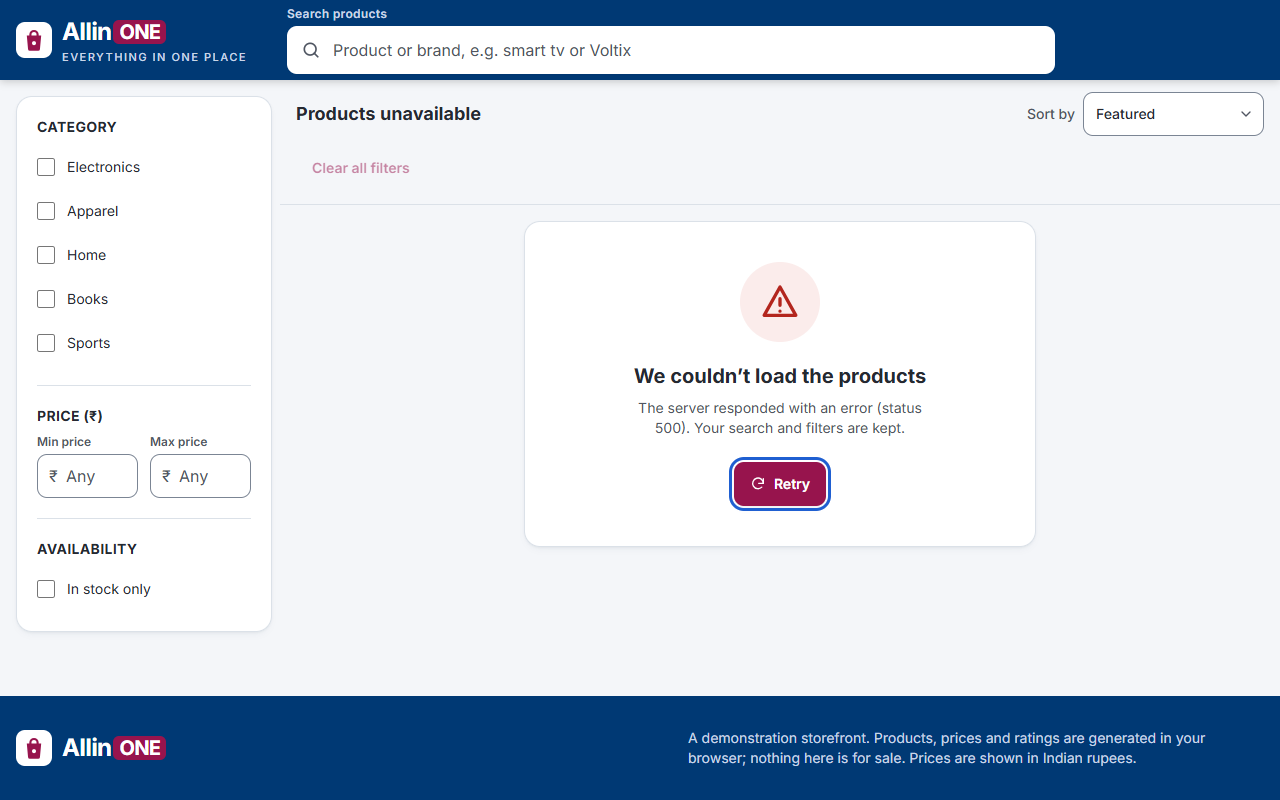
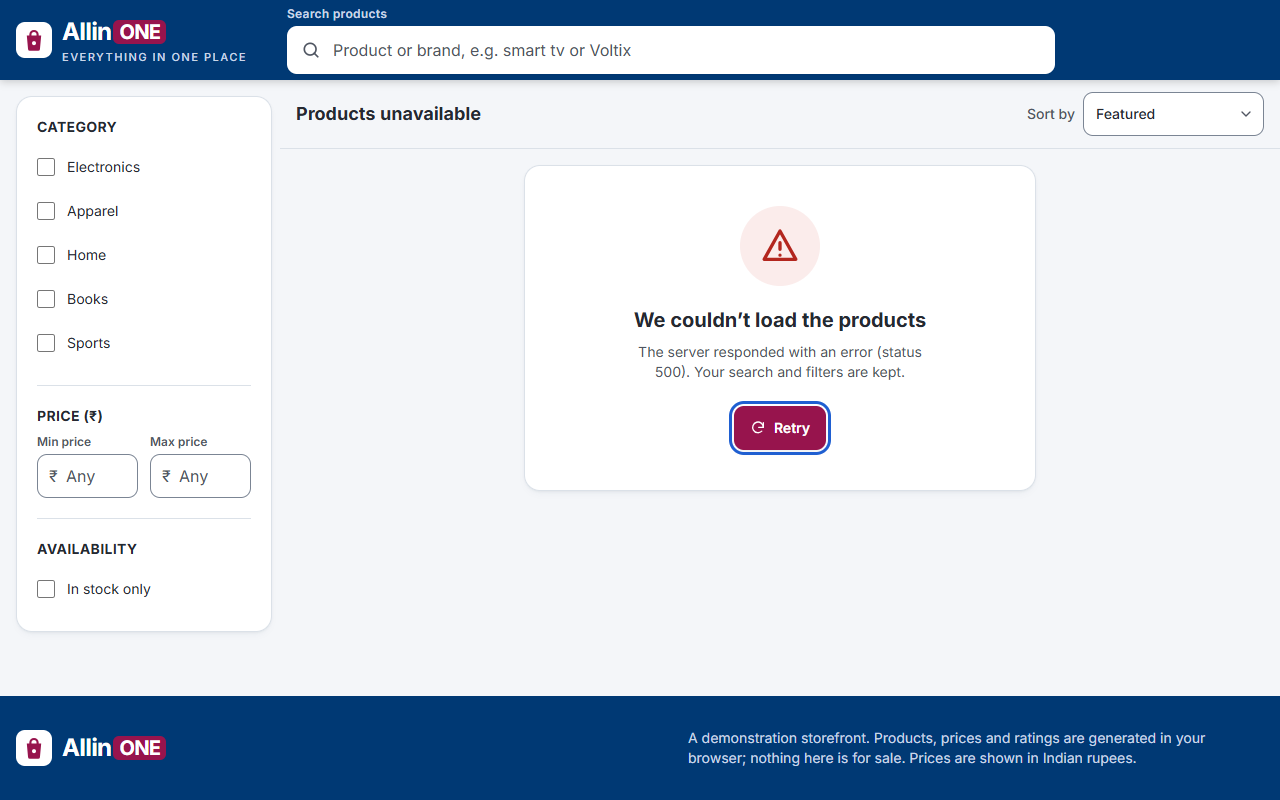
last update fix search focus

Changed region(s): [[0.5, 0.2812, 0.7188, 0.6562], [0.25, 0.1875, 0.3125, 0.2188]]

diff --git a/src/app/features.test.tsx b/src/app/features.test.tsx
@@ -18,9 +18,9 @@ describe('the default build: a single catalog page', () => {
     expect(screen.getByRole('button', { name: 'Buy now: Trail Running Shoes' })).toBeInTheDocument();
     expect(screen.queryByRole('button', { name: /^Share/ })).not.toBeInTheDocument();
     expect(screen.queryByText(/reviews?\)/)).not.toBeInTheDocument();
-    // The brief's controls are all there.
     expect(screen.getByRole('combobox', { name: 'Search products' })).toBeInTheDocument();
-    expect(screen.getByRole('button', { name: 'Clear all filters' })).toBeInTheDocument();
+    // Nothing to clear yet, so no Clear all button.
+    expect(screen.queryByRole('button', { name: 'Clear all filters' })).not.toBeInTheDocument();
   });
 
   it.each(['/product/p-1', '/cart', '/cart?items=p-1:2', '/checkout', '/checkout/confirmation'])(
@@ -60,5 +60,21 @@ describe('the default build: a single catalog page', () => {
     await waitFor(() => expect(currentSearch()).toBe(''));
     expect(screen.getByRole('combobox', { name: 'Search products' })).toHaveValue('');
     expect(await screen.findByRole('heading', { level: 3, name: 'Cotton T-Shirt' })).toBeInTheDocument();
+  });
+
+  it('focus that the app moves to the search box does not open the suggestions; a click does', async () => {
+    const services = defaultBuild();
+    services.recentSearches.add('yoga mat');
+    const { user } = renderApp({ route: '/?q=shoes', services });
+    await screen.findByRole('heading', { level: 3, name: 'Trail Running Shoes' });
+    const search = screen.getByRole('combobox', { name: 'Search products' });
+
+    await user.click(screen.getByRole('button', { name: 'Clear search' }));
+    expect(search).toHaveFocus();
+    expect(screen.queryByRole('listbox', { name: 'Search suggestions' })).not.toBeInTheDocument();
+
+    await user.click(search);
+    expect(screen.getByRole('listbox', { name: 'Search suggestions' })).toBeVisible();
+    expect(screen.getByRole('option', { name: /yoga mat/ })).toBeInTheDocument();
   });
 });

diff --git a/src/features/catalog/SearchBox.tsx b/src/features/catalog/SearchBox.tsx
@@ -44,12 +44,15 @@ export const SearchBox = memo(function SearchBox({
   const id = useId();
   const listId = `${id}-suggestions`;
   const [focused, setFocused] = useState(false);
+  // Opened by the user (a click or tap in the field, typing, or Down), never by focus alone:
+  // focus that the app moves here (e.g. after Clear search) must not pop the list open.
+  const [engaged, setEngaged] = useState(false);
   const [highlighted, setHighlighted] = useState(-1);
   // The text for which the list was closed (Esc, or a pick); typing anything else reopens it.
   const [dismissedFor, setDismissedFor] = useState<string | null>(null);
 
   const count = suggestions.length;
-  const open = focused && count > 0 && dismissedFor !== value;
+  const open = focused && engaged && count > 0 && dismissedFor !== value;
   const active = open && highlighted < count ? highlighted : -1;
 
   const pick = (text: string) => {
@@ -62,6 +65,7 @@ export const SearchBox = memo(function SearchBox({
     if (event.key === 'ArrowDown' || event.key === 'ArrowUp') {
       if (count === 0) return;
       event.preventDefault();
+      setEngaged(true);
       setDismissedFor(null);
       const step = event.key === 'ArrowDown' ? 1 : -1;
       // Nothing highlighted yet: Down starts at the first item, Up at the last. Otherwise wrap.
@@ -108,12 +112,15 @@ export const SearchBox = memo(function SearchBox({
           value={value}
           onChange={(event) => {
             setHighlighted(-1);
+            setEngaged(true);
             onChange(event.target.value);
           }}
+          onPointerDown={() => setEngaged(true)}
           onKeyDown={onKeyDown}
           onFocus={() => setFocused(true)}
           onBlur={() => {
             setFocused(false);
+            setEngaged(false);
             setHighlighted(-1);
           }}
           maxLength={MAX_QUERY_LENGTH}

diff --git a/e2e/journey.spec.ts b/e2e/journey.spec.ts
@@ -1,5 +1,5 @@
 import { expect, test } from '@playwright/test';
-import { expectResults, expectSearch, tabTo, waitForCards } from './helpers';
+import { expectResults, expectSearch, resultsHeading, tabTo, waitForCards } from './helpers';
 
 // Expected counts come from the deterministic dataset (seed 20240611, see the checksum test).
 test('full journey with the keyboard only: search, category, price, sort, clear all', async ({ page }) => {
@@ -57,13 +57,16 @@ test('full journey with the keyboard only: search, category, price, sort, clear 
   expect(prices.length).toBeGreaterThan(3);
   expect(prices).toEqual([...prices].sort((a, b) => a - b));
 
-  // Clear all with Enter: URL reset, full count, focus back in the search box
-  await tabTo(page, page.getByRole('button', { name: 'Clear all filters' }));
+  // Clear all with Enter: URL reset, full count, focus on the results heading, the button gone
+  const clearAll = page.getByRole('button', { name: 'Clear all filters' });
+  await tabTo(page, clearAll);
   await page.keyboard.press('Enter');
   await expectResults(page, '5,000 results');
   await expectSearch(page, '');
   await expect(search).toHaveValue('');
-  await expect(search).toBeFocused();
+  await expect(resultsHeading(page)).toBeFocused();
+  await expect(clearAll).toHaveCount(0);
+  await expect(page.getByRole('listbox', { name: 'Search suggestions' })).toBeHidden();
 });
 
 test('conversational search and typo correction in real Chrome', async ({ page }) => {

diff --git a/src/features/catalog/ResultSummary.tsx b/src/features/catalog/ResultSummary.tsx
@@ -94,13 +94,15 @@ export const ResultSummary = memo(function ResultSummary({
       </div>
       {note && <p className="-mt-1 text-sm text-ink-muted">{note}</p>}
       {/* Mobile: chips stay on one scrollable line. Padding leaves room for focus rings. */}
-      {/* "Clear all filters" is always on the page; it is disabled while there is nothing to clear. */}
-      <div className="-mx-1.5 -my-1 flex items-center gap-2 overflow-x-auto px-1.5 py-1.5 md:flex-wrap md:overflow-visible">
-        {canClear && <ActiveFilterChips filters={filters} onRemove={onRemove} />}
-        <Button variant="ghost" className="shrink-0 px-2" disabled={!canClear} onClick={onClearAll}>
-          Clear all filters
-        </Button>
-      </div>
+      {/* Chips and "Clear all filters" appear once a search or filter is applied. */}
+      {canClear && (
+        <div className="-mx-1.5 -my-1 flex items-center gap-2 overflow-x-auto px-1.5 py-1.5 md:flex-wrap md:overflow-visible">
+          <ActiveFilterChips filters={filters} onRemove={onRemove} />
+          <Button variant="ghost" className="shrink-0 px-2" onClick={onClearAll}>
+            Clear all filters
+          </Button>
+        </div>
+      )}
     </div>
   );
 });

diff --git a/src/features/catalog/CatalogPage.test.tsx b/src/features/catalog/CatalogPage.test.tsx
@@ -83,7 +83,7 @@ describe('CatalogPage (core, add-on flags off)', () => {
     await waitFor(() => expect(heading).toHaveFocus());
   });
 
-  it('shows the empty state; Clear all resets the URL and focuses the search box', async () => {
+  it('shows the empty state; Clear all resets the URL and focuses the results heading', async () => {
     const { user, currentSearch } = renderApp({ route: '/?q=zzzz&inStock=true&utm_source=mail' });
     const empty = await screen.findByRole('heading', { name: 'No products match “zzzz”' });
 
@@ -95,7 +95,8 @@ describe('CatalogPage (core, add-on flags off)', () => {
     expect(currentSearch()).toBe('?utm_source=mail');
     const search = screen.getByRole('combobox', { name: 'Search products' });
     expect(search).toHaveValue('');
-    expect(search).toHaveFocus();
+    expect(screen.getByRole('heading', { level: 2 })).toHaveFocus();
+    expect(screen.queryByRole('button', { name: 'Clear all filters' })).not.toBeInTheDocument();
   });
 
   it('removes a single filter with its chip', async () => {

diff --git a/e2e/suggest.spec.ts b/e2e/suggest.spec.ts
@@ -72,6 +72,9 @@ test('a clicked suggestion is searched and remembered as a recent search across 
   await waitForCards(page);
   await page.getByRole('button', { name: 'Clear search' }).click();
   await expect(search).toBeFocused();
+  // Focus alone does not open the list; a click in the field does.
+  await expect(list).toBeHidden();
+  await search.click();
   const recent = list.getByRole('option').first();
   await expect(recent).toContainText(picked);
   await expect(recent).toContainText('Recent');

diff --git a/src/features/catalog/CatalogPage.tsx b/src/features/catalog/CatalogPage.tsx
@@ -108,7 +108,8 @@ export function CatalogPage() {
     resetSearchText('');
     update(DEFAULT_FILTERS, { history: 'push' });
     setFiltersOpen(false);
-    searchInputRef.current?.focus();
+    // The button disappears with the filters; continue from the results heading.
+    headingRef.current?.focus();
   }, [resetSearchText, update]);
 
   const removeFilter = useCallback(

diff --git a/README.md b/README.md
@@ -83,7 +83,7 @@ the brief's eight fields, and the mock API returns exactly that shape.
 | In-stock filter | Checkbox "In stock only" | `StockToggle.tsx` | engine tests, e2e history |
 | Sort: price low-high, high-low, rating highest first | Native select; ties broken by dataset order (stable) | `SortSelect.tsx`, `InMemorySearchEngine.ts` | engine sort tests, e2e journey (prices ascending) |
 | Total match count | Heading "N results for “q”" in the results bar; the live region says "N products found" | `ResultSummary.tsx` | interaction and e2e tests |
-| "Clear all filters" | Resets query, filters and sort, keeps foreign URL params, focuses the search box | `CatalogPage.tsx`, `ResultSummary.tsx`, `EmptyState.tsx` | interaction tests, e2e journey |
+| "Clear all filters" | Shown in the results bar once a search or filter is applied (and in the empty state). Resets query, filters and sort, keeps foreign URL params, then focuses the results heading | `CatalogPage.tsx`, `ResultSummary.tsx`, `EmptyState.tsx` | interaction tests, e2e journey |
 | Filters, query and sort in the URL; reload or shared link restores the view | URL is the only filter store; total parser, canonical serializer | `src/url/*` | `filters-url.test.ts`, e2e `history.spec.ts` (reload, Back/Forward, no history flooding) |
 | Loading skeletons | Shimmer skeletons with the exact grid/list card dimensions, `aria-busy` | `LoadingState.tsx` | dimensions shared with the card constants; reviewed visually in an earlier round, not re-captured this round |
 | Helpful empty state | Only after a successful load with zero matches; illustration, tips, Clear all | `EmptyState.tsx` | interaction tests, e2e |
@@ -94,7 +94,7 @@ the brief's eight fields, and the mock API returns exactly that shape.
 | No lag typing or rendering large lists; justified strategy; no redundant re-renders | Row virtualisation, deferred search, memoised cards, cheap per-card cart subscription | `ProductGrid.tsx`, `ProductCard.tsx` | `npm run bench`, `npm run perf`, e2e DOM-count test |
 | Client-side routing on S3 + CloudFront with fallback to `/index.html` | CloudFront Function rewrites extension-less paths (`/product/p-00042`, `/cart`, `/checkout`) | `infra/cloudfront/spa-rewrite.js`, `src/app/router.tsx` | e2e `cloudfront.spec.ts` (runs the function in a VM), e2e deep-link reloads |
 | No hardcoded secrets; `VITE_*` config | One module reads `import.meta.env` and validates it | `src/config/env.ts`, `.env.example` | `env.test.ts` |
-| Vitest + RTL tests: core filter/sort logic and a user flow | 522 tests in 30 files | `src/**/*.test.ts(x)` | `npm test` |
+| Vitest + RTL tests: core filter/sort logic and a user flow | 527 tests in 31 files | `src/**/*.test.ts(x)` | `npm test` |
 | README with setup, architecture, performance, CloudFront notes, improvements | This file | `README.md` | n/a |
 
 ### Add-ons beyond the brief
@@ -273,7 +273,7 @@ in the font stack where it is installed. Nothing is fetched from a CDN.
 | Area | What it looks like |
 |---|---|
 | Header | Sticky navy bar: wordmark (bag mark only on phones; on the catalog it is a link that clears search, filters and page and returns to the top), visible "Search products" label, search field with icon and Clear button (cart link with count badge when the cart is on). One compact row on phones (72 px). |
-| Results bar | "N results for “q”", Filters button (below 1024 px), Sort select, relaxation note, chips and Clear all. Sticky under the header from 768 px up; on phones it scrolls away so the pinned area stays at 72 px. |
+| Results bar | "N results for “q”", Filters button (below 1024 px), Sort select, relaxation note, and (once anything is applied) chips and Clear all. Sticky under the header from 768 px up; on phones it scrolls away so the pinned area stays at 72 px. |
 | Filter sidebar | Card with Category, Price and Availability sections and right-aligned facet counts; stays in view. Below 1024 px the same panel opens in a drawer with a sticky "Show N results" button. |
 | Product card | The eight `Product` fields: illustration (`thumbnailUrl`) with category badge, brand, two-line title, star rating with its value, price with a raised ₹, stock line ("1 in cart" after adding). Then Add to cart (burgundy outline) and Buy now (solid burgundy). Without the cart page, Buy now adds the product and announces that checkout is not part of the demo. With the product page on, the title is a link (with hover cues on pointer devices). Fixed height: 24.125 rem in the grid and 13.25 rem in the phone list layout (21 and 9.375 rem with `VITE_FEATURE_BUY_BUTTONS=false`), so the last line sits on the bottom padding (checked in Chrome at 1440, 768, 390 and 320 px). All text clamps. |
 | Pages | One catalog page by default. With the optional features on, the product page, cart, checkout, confirmation and 404 share one layout with a header search that opens the catalog. |
@@ -535,7 +535,8 @@ previously loaded catalog.
   the sort select opens with either; price fields commit on Enter. A native checkbox toggles
   only on Space, so the filter checkboxes also toggle on Enter (`Checkbox.tsx`).
 - One polite live region for results, loading, errors, cart changes and search corrections.
-- Focus: Clear all → search box; chip removal → results heading; Retry focused on error and
+- Focus: Clear all and chip removal → results heading; the suggestion list opens only on the
+  user's own click, typing or Down in the search field, never because focus moved there; Retry focused on error and
   results heading after recovery; drawer traps focus, Esc closes, focus returns; after
   navigation focus moves to the page heading; Back to the catalog refocuses the opened
   product link; checkout submit focuses the first invalid field.
@@ -613,7 +614,7 @@ script file itself has not been run.
 
 ## Tests
 
-`npm test`: **522 tests in 30 files** (Vitest, jsdom, React Testing Library, user-event):
+`npm test`: **527 tests in 31 files** (Vitest, jsdom, React Testing Library, user-event):
 generator (determinism, checksum, price spread, illustrations for every item type), mock
 service, engine filters and sorts, conversational search (stop words, fallback, typo table
 including brand typos, short-token and correct-query cases), URL codec, smart-search phrases,
@@ -672,7 +673,7 @@ page; axe).
 
 Verified on this machine (Windows 11, Node 24.15.0, Chrome 157):
 
-- `npm run typecheck`, `npm run lint` exit 0; `npm test` 522 passed in 30 files;
+- `npm run typecheck`, `npm run lint` exit 0; `npm test` 527 passed in 31 files;
   `npm run e2e` 87 passed in real Chrome, including axe on every main page.
 - The S3 + CloudFront deployment: see the checks listed under "Deploying to S3 + CloudFront".
 - Build (default flags): main JS 329.33 kB (106.28 kB gzip), CSS 38.01 kB (8.48 kB gzip).
